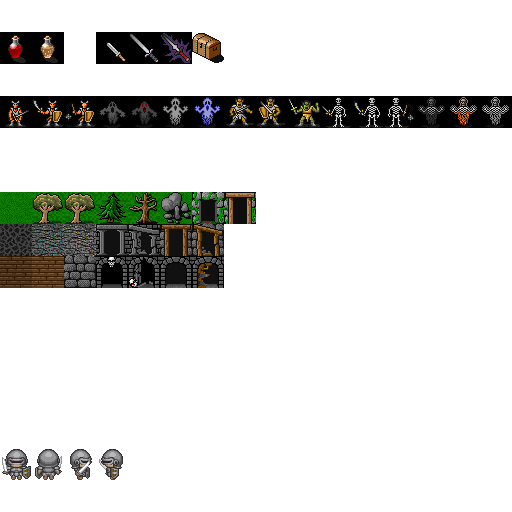
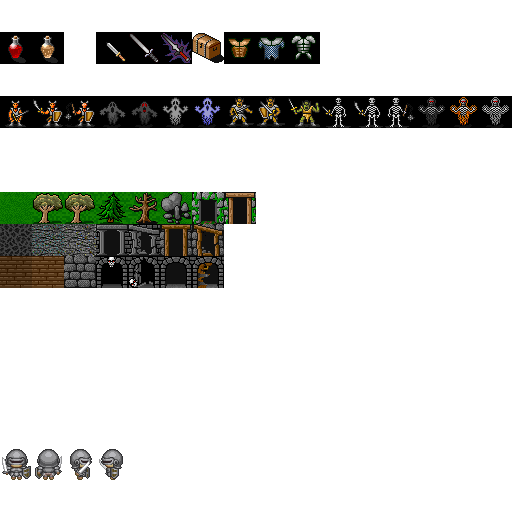
Add armor
Add armor to the game. The player can pick up armor that reduces the incoming damage.

Changed region(s): [[0.4375, 0.0625, 0.625, 0.125]]

diff --git a/src/systems/combat.rs b/src/systems/combat.rs
@@ -15,24 +15,6 @@ pub fn combat(ecs: &mut SubWorld, commands: &mut CommandBuffer) {
         .collect::<Vec<_>>();
 
     for (message, attacker, victim) in &attacks {
-        let base_damage = ecs.entry_ref(*attacker).map_or(0, |attacker| {
-            attacker.get_component::<Damage>().map_or(0, |d| d.0)
-        });
-
-        let weapon_damage = <&Damage>::query()
-            .filter(component::<EquippedWeapon>())
-            .iter(ecs)
-            .map(|damage| damage.0)
-            .sum::<i32>();
-
-        let defense = ecs
-            .entry_ref(*victim)
-            .unwrap()
-            .get_component::<Defense>()
-            .map_or(0, |d| d.0);
-
-        let final_damage = i32::max(base_damage + weapon_damage - defense, 0);
-
         let victim_is_player = ecs
             .entry_ref(*victim)
             .unwrap()
@@ -49,6 +31,39 @@ pub fn combat(ecs: &mut SubWorld, commands: &mut CommandBuffer) {
             commands.remove(*message);
             continue;
         }
+
+        let base_damage = ecs.entry_ref(*attacker).map_or(0, |attacker| {
+            attacker.get_component::<Damage>().map_or(0, |d| d.0)
+        });
+
+        let weapon_damage = if attacker_is_player {
+            <&Damage>::query()
+                .filter(component::<EquippedWeapon>())
+                .iter(ecs)
+                .map(|damage| damage.0)
+                .sum::<i32>()
+        } else {
+            0
+        };
+
+        let base_defense = ecs.entry_ref(*victim).map_or(0, |victim| {
+            victim.get_component::<Defense>().map_or(0, |d| d.0)
+        });
+
+        let armor_defense = if victim_is_player {
+            <&Defense>::query()
+                .filter(component::<EquippedArmor>())
+                .iter(ecs)
+                .map(|defense| defense.0)
+                .sum::<i32>()
+        } else {
+            0
+        };
+
+        let final_damage = i32::max(
+            base_damage + weapon_damage - base_defense - armor_defense,
+            0,
+        );
 
         let mut score_gain = None;
 

diff --git a/src/systems/player_input.rs b/src/systems/player_input.rs
@@ -15,6 +15,9 @@ use crate::prelude::*;
 #[read_component(Weapon)]
 #[read_component(Damage)]
 #[read_component(EquippedWeapon)]
+#[read_component(Armor)]
+#[read_component(Defense)]
+#[read_component(EquippedArmor)]
 #[write_component(Render)]
 #[write_component(Health)]
 #[allow(clippy::trivially_copy_pass_by_ref)]
@@ -109,6 +112,7 @@ fn pick_up_item(ecs: &mut SubWorld, commands: &mut CommandBuffer, turn_state: &m
 
             let entry = ecs.entry_ref(entity).expect("Unable to get entry ref");
             let is_weapon = entry.get_component::<Weapon>().is_ok();
+            let is_armor = entry.get_component::<Armor>().is_ok();
             let is_chest_item = entry.get_component::<ChestItem>().is_ok();
 
             if is_weapon {
@@ -127,6 +131,23 @@ fn pick_up_item(ecs: &mut SubWorld, commands: &mut CommandBuffer, turn_state: &m
                     }
                 } else {
                     commands.add_component(entity, EquippedWeapon);
+                }
+            } else if is_armor {
+                debug!("Picking up armor");
+                let new_defense = entry.get_component::<Defense>().map_or(0, |d| d.0);
+                let current_armor = <(Entity, &Defense)>::query()
+                    .filter(component::<EquippedArmor>())
+                    .iter(ecs)
+                    .map(|(entity, defense)| (*entity, defense.0))
+                    .next();
+
+                if let Some((current_armor, current_defense)) = current_armor {
+                    if new_defense > current_defense {
+                        commands.remove(current_armor);
+                        commands.add_component(entity, EquippedArmor);
+                    }
+                } else {
+                    commands.add_component(entity, EquippedArmor);
                 }
             } else if is_chest_item {
                 let name = entry

diff --git a/src/spawner/template.rs b/src/spawner/template.rs
@@ -17,7 +17,8 @@ pub struct Template {
     pub provides: Option<Vec<(String, i32)>>,
     pub hp: Option<i32>,
     pub fov: Option<i32>,
-    pub base_damage: Option<i32>,
+    pub damage: Option<i32>,
+    pub defense: Option<i32>,
 }
 
 #[derive(Clone, Deserialize, Debug, PartialEq, Eq)]
@@ -158,10 +159,17 @@ impl Templates {
                 });
         }
 
-        if let Some(damage) = &template.base_damage {
+        if let Some(damage) = &template.damage {
             commands.add_component(entity, Damage(*damage));
             if template.entity_type == EntityType::Item {
                 commands.add_component(entity, Weapon);
+            }
+        }
+
+        if let Some(defense) = &template.defense {
+            commands.add_component(entity, Defense(*defense));
+            if template.entity_type == EntityType::Item {
+                commands.add_component(entity, Armor);
             }
         }
     }

diff --git a/src/systems/hud.rs b/src/systems/hud.rs
@@ -7,6 +7,7 @@ use crate::prelude::*;
 #[read_component(Carried)]
 #[read_component(Name)]
 #[read_component(Damage)]
+#[read_component(Defense)]
 #[read_component(EquippedWeapon)]
 pub fn hud(ecs: &SubWorld) {
     let player_health = <&Health>::query()
@@ -77,7 +78,18 @@ pub fn hud(ecs: &SubWorld) {
         .for_each(|(name, damage)| {
             draw_batch.print(
                 Point::new(1, 4),
-                format!("Current Weapon: {} ({})", name.0, damage.0),
+                format!("Current Weapon: {} (+{})", name.0, damage.0),
+            );
+        });
+
+    // show equipped armor
+    <(&Name, &Defense)>::query()
+        .filter(component::<EquippedArmor>())
+        .iter(ecs)
+        .for_each(|(name, defense)| {
+            draw_batch.print(
+                Point::new(1, 5),
+                format!("Current Armor: {} (+{})", name.0, defense.0),
             );
         });
 

diff --git a/src/components.rs b/src/components.rs
@@ -119,7 +119,13 @@ pub struct Defense(pub i32);
 pub struct Weapon;
 
 #[derive(Clone, Copy, Debug, PartialEq, Eq)]
+pub struct Armor;
+
+#[derive(Clone, Copy, Debug, PartialEq, Eq)]
 pub struct EquippedWeapon;
+
+#[derive(Clone, Copy, Debug, PartialEq, Eq)]
+pub struct EquippedArmor;
 
 #[derive(Clone, Copy, Debug, PartialEq, Eq)]
 pub struct EquippedChestItem;

diff --git a/resources/create_dungeonfont.py b/resources/create_dungeonfont.py
@@ -10,6 +10,9 @@ glyphs = {
     20: "SwordTwoHanded.PNG",
     21: "SwordMedievalMagical.PNG",
     22: "chest.gif",
+    23: "ArmorLeatherSoft.PNG",
+    24: "ArmorChainMailDouble.PNG",
+    25: "ArmorPlatemailRibbed.PNG",
     # monsters -----------------------------
     48: "ImpFighter.PNG",
     49: "ImpFighter2.PNG",
